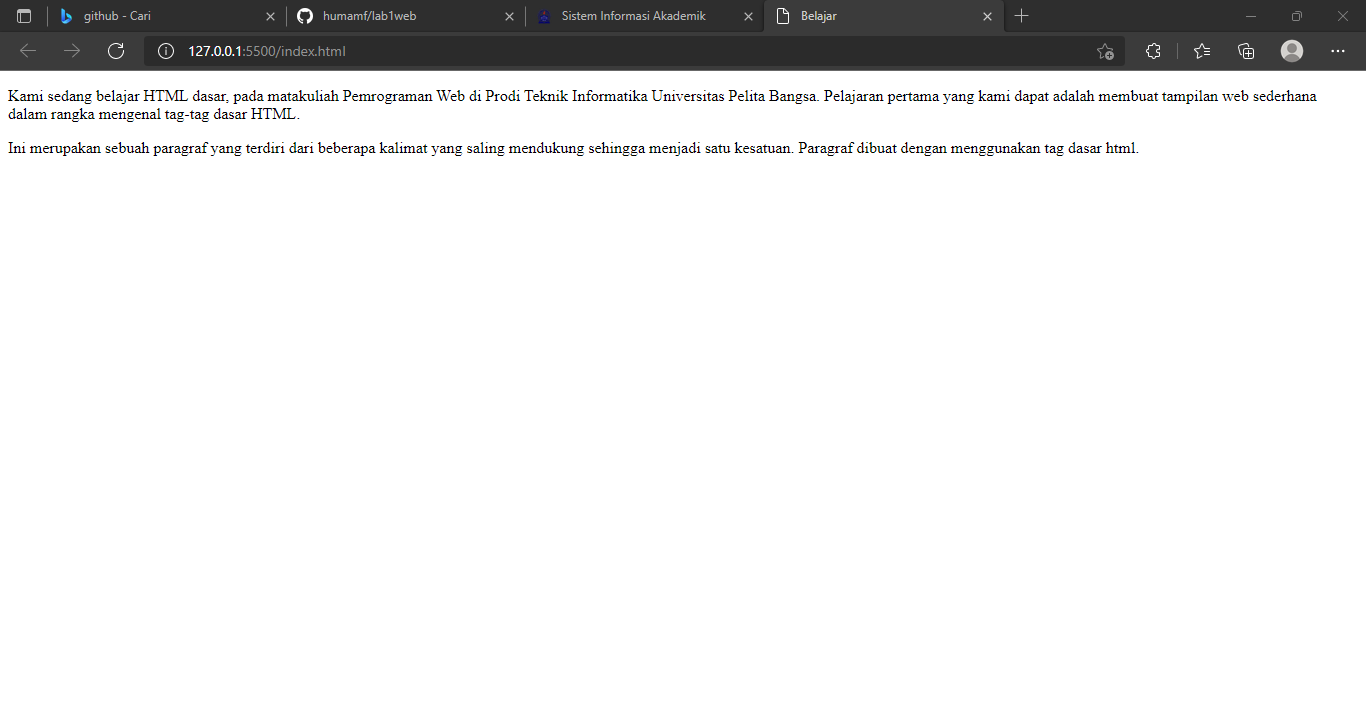
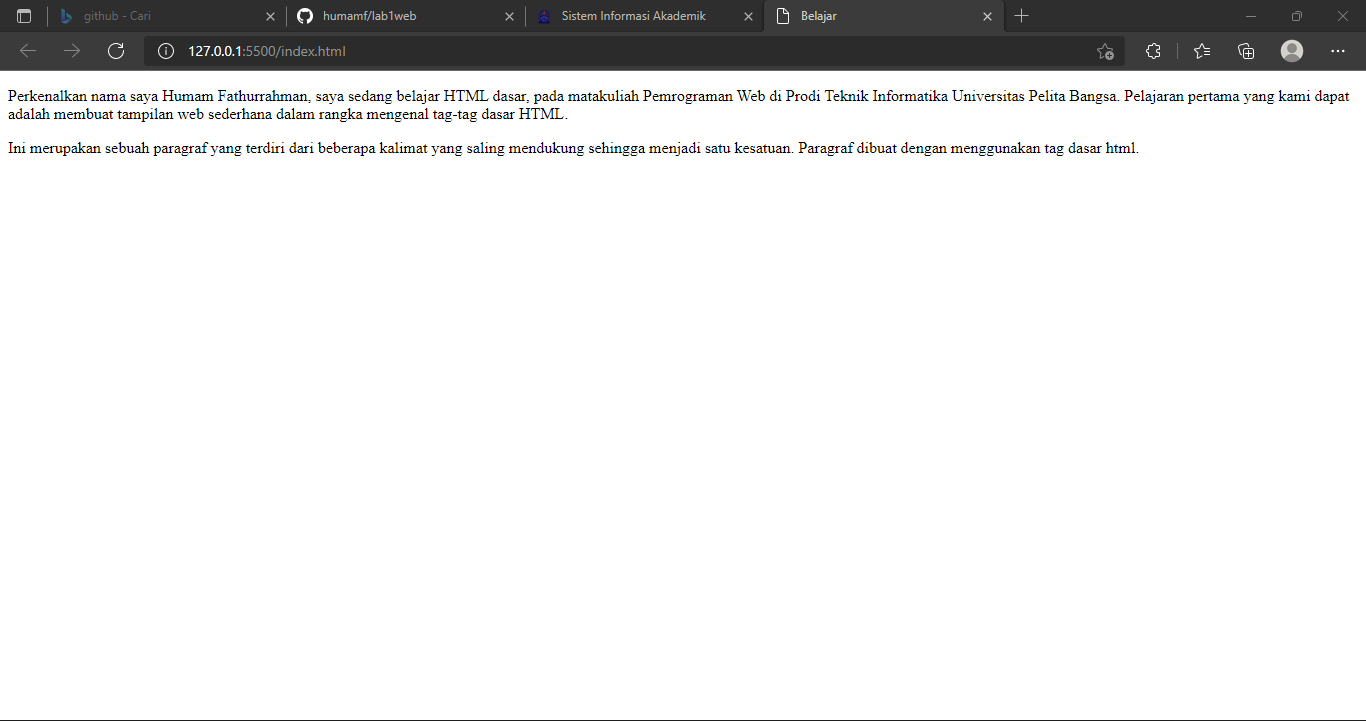
menambahkan paragraf

Changed region(s): [[0.0, 0.1227, 0.9839, 0.2148], [0.0307, 0.0, 0.123, 0.0307], [0.123, 0.0614, 0.1845, 0.0921]]

diff --git a/index.html b/index.html
@@ -7,11 +7,13 @@
     <title>Belajar</title>
 </head>
 <body>
+    
     <!-- Ini adalah paragraf pertama -->
-    <p>Kami sedang belajar HTML dasar, pada matakuliah Pemrograman Web di Prodi
+    <p>Perkenalkan nama saya Humam Fathurrahman, saya sedang belajar HTML dasar, pada matakuliah Pemrograman Web di Prodi
     Teknik Informatika Universitas Pelita Bangsa. Pelajaran pertama yang kami dapat
     adalah membuat tampilan web sederhana dalam rangka mengenal tag-tag dasar
     HTML.</p>
+    
     <!-- Ini adalah paragraf kedua -->
     <p>Ini merupakan sebuah paragraf yang terdiri dari beberapa kalimat yang saling
     mendukung sehingga menjadi satu kesatuan. Paragraf dibuat dengan menggunakan
